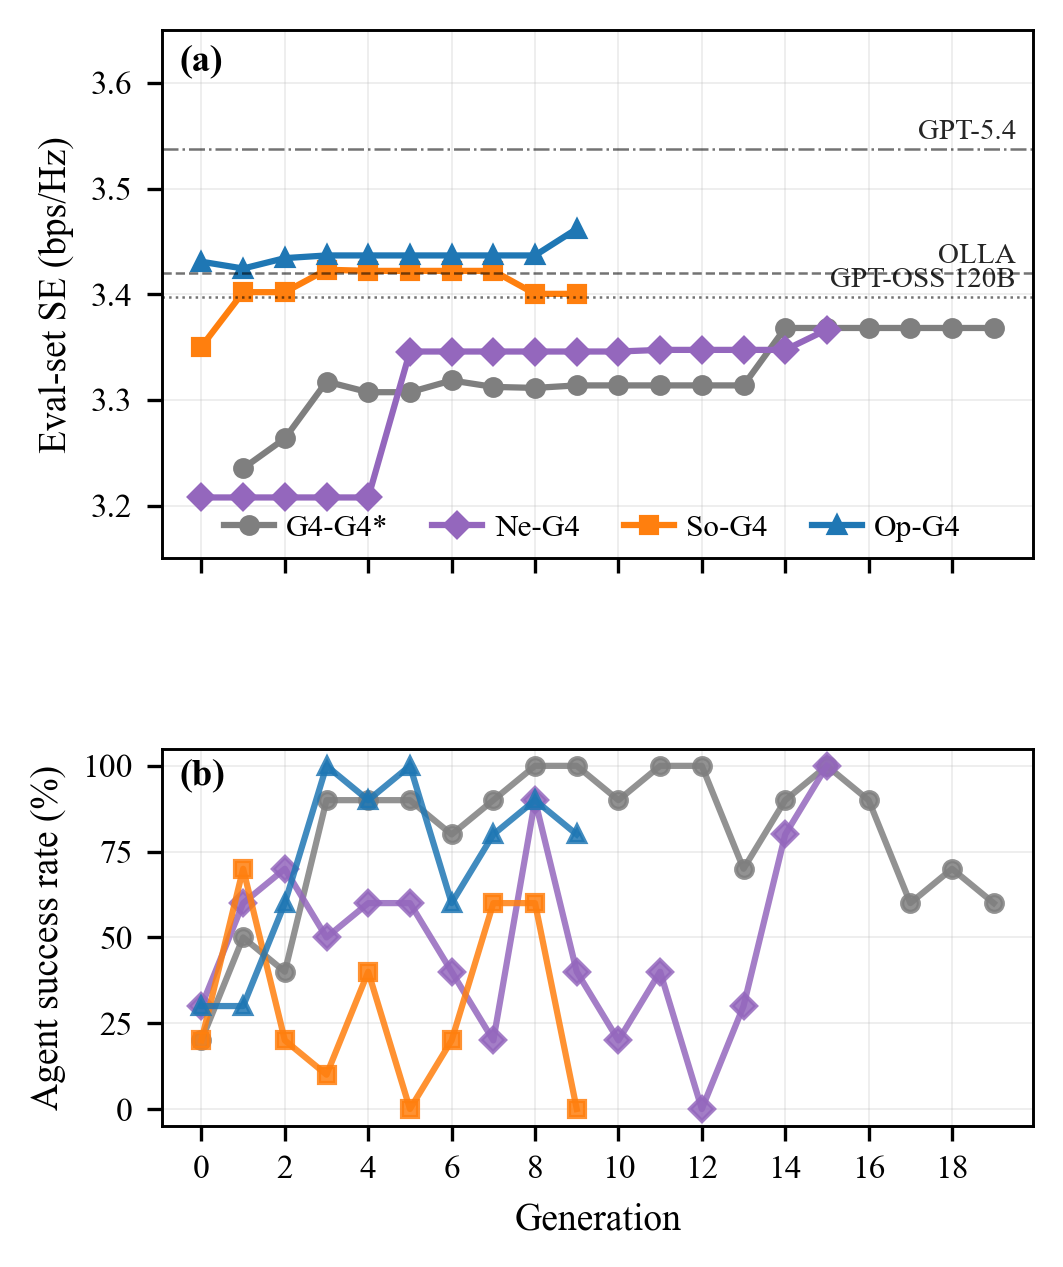
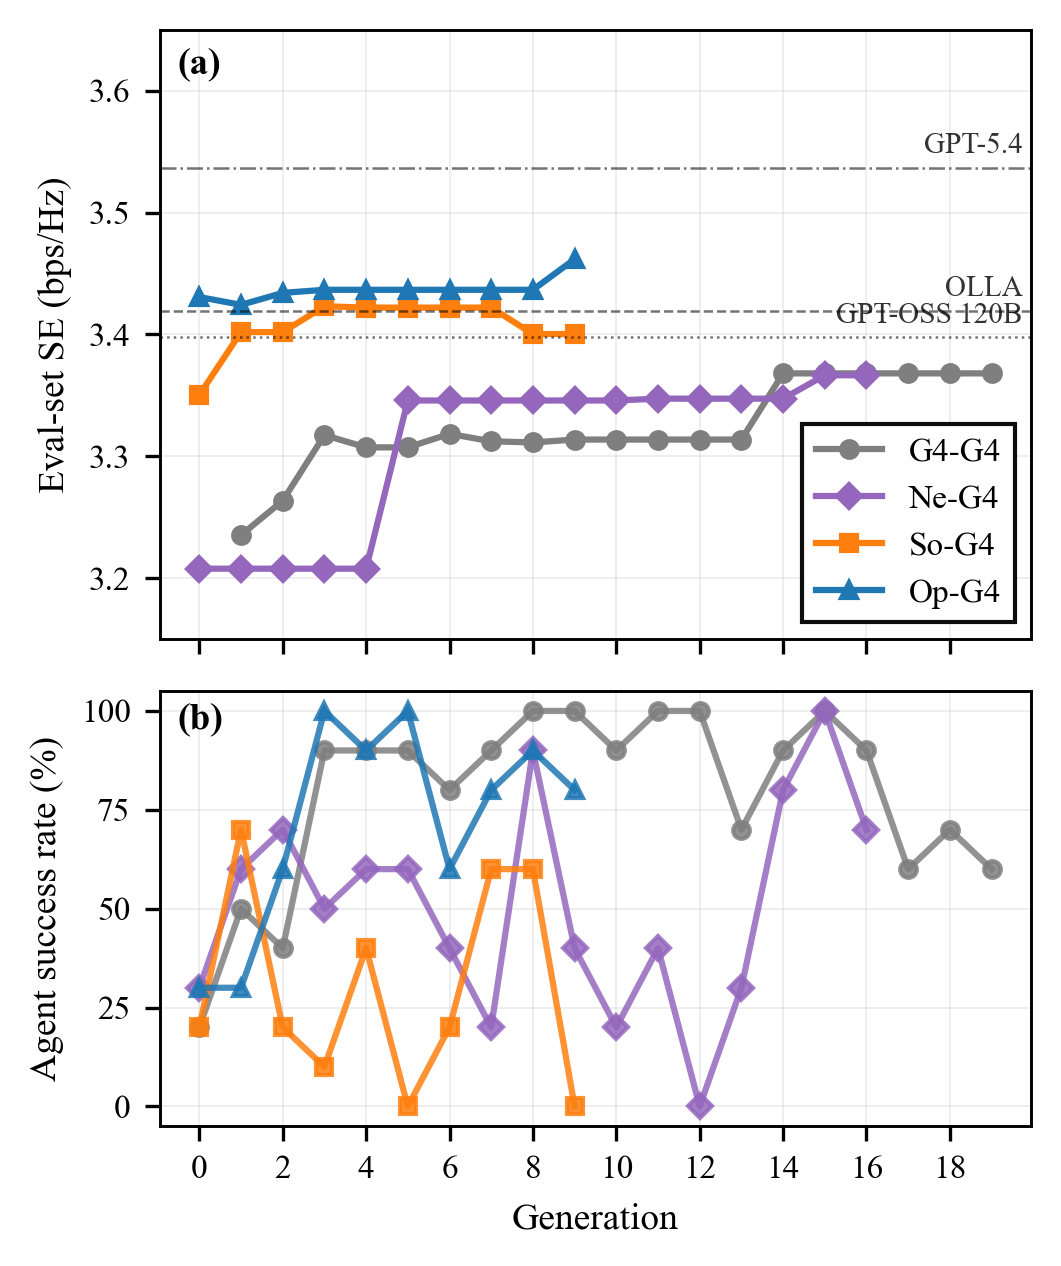
paper: update fig2 with Nemotron (Ne-G4) curve and inside reference labels
- Add Ne-G4 (Nemotron-H 123.6B Q4 manager, link_adaptation_c2) to fig2;
  per-gen eval SE data added to per_gen_eval_se.json (best: 3.3665 bps/Hz)
- Move GPT-5.4 / OLLA / GPT-OSS 120B reference labels inside the axis
- Widen right margin (0.82 -> 0.97) since labels no longer need right-margin space

diff --git a/paper/make_figures.py b/paper/make_figures.py
@@ -95,9 +95,10 @@ def make_fig2():
     # Configurations (manager varies, agents fixed = Gemma4-26B).
     # Labels use the short Manager-Agent naming used in Table I.
     configs = [
-        ("link_adaptation_a1", "G4-G4 (local Gemma4 manager)",   "tab:gray",   "o", "-"),
-        ("link_adaptation_f0", "So-G4 (Sonnet 4.6 manager)",     "tab:orange", "s", "-"),
-        ("link_adaptation_f1", "Op-G4 (Opus 4.7 manager)",       "tab:blue",   "^", "-"),
+        ("link_adaptation_a1", "G4-G4",   "tab:gray",   "o", "-"),
+        ("link_adaptation_c2", "Ne-G4",   "tab:purple", "D", "-"),
+        ("link_adaptation_f0", "So-G4",   "tab:orange", "s", "-"),
+        ("link_adaptation_f1", "Op-G4",   "tab:blue",   "^", "-"),
     ]
 
     fig, (ax_top, ax_bot) = plt.subplots(
@@ -108,20 +109,19 @@ def make_fig2():
     # ── top: running-best on eval scale, zoomed to where the action is ──
     for task_dir, label, color, marker, style in configs:
         gens, best, _ = load_per_generation(task_dir)
-        # plot only points within the visible range
         mask = best >= 3.15
         ax_top.plot(gens[mask], best[mask], marker=marker, color=color,
                     linestyle=style, label=label)
 
-    # Reference lines — labels in the right-hand margin to avoid stacking
-    refs = [(OLLA, "OLLA", "--"),
-            (GPT_OSS_120B, "GPT-OSS 120B", ":"),
-            (GPT_5_4, "GPT-5.4", "-.")]
-    for y, lbl, ls in refs:
+    # Reference lines — labels inside the axis at the right edge
+    refs = [(OLLA,        "OLLA",         "--", "bottom"),
+            (GPT_OSS_120B,"GPT-OSS 120B", ":",  "bottom"),
+            (GPT_5_4,     "GPT-5.4",      "-.", "bottom")]
+    for y, lbl, ls, va in refs:
         ax_top.axhline(y, color="black", linewidth=0.6, linestyle=ls, alpha=0.55)
-        ax_top.annotate(lbl, xy=(1.0, y), xycoords=("axes fraction", "data"),
-                        xytext=(3, 0), textcoords="offset points",
-                        fontsize=7, color="black", alpha=0.8, va="center", ha="left")
+        ax_top.annotate(lbl, xy=(0.99, y), xycoords=("axes fraction", "data"),
+                        xytext=(0, 2), textcoords="offset points",
+                        fontsize=7, color="black", alpha=0.8, va=va, ha="right")
 
     ax_top.set_ylabel("Eval-set SE (bps/Hz)")
     ax_top.set_ylim(3.15, 3.65)
@@ -149,8 +149,7 @@ def make_fig2():
     ax_bot.text(0.02, 0.97, "(b)", transform=ax_bot.transAxes,
                 fontsize=9, fontweight="bold", va="top", ha="left")
 
-    # Tight layout, leaving room for the right-margin reference labels
-    fig.subplots_adjust(left=0.14, right=0.82, top=0.97, bottom=0.10)
+    fig.subplots_adjust(left=0.14, right=0.97, top=0.97, bottom=0.10)
 
     fig.savefig(FIG_DIR / "fig2-convergence.pdf")
     fig.savefig(FIG_DIR / "fig2-convergence.png")